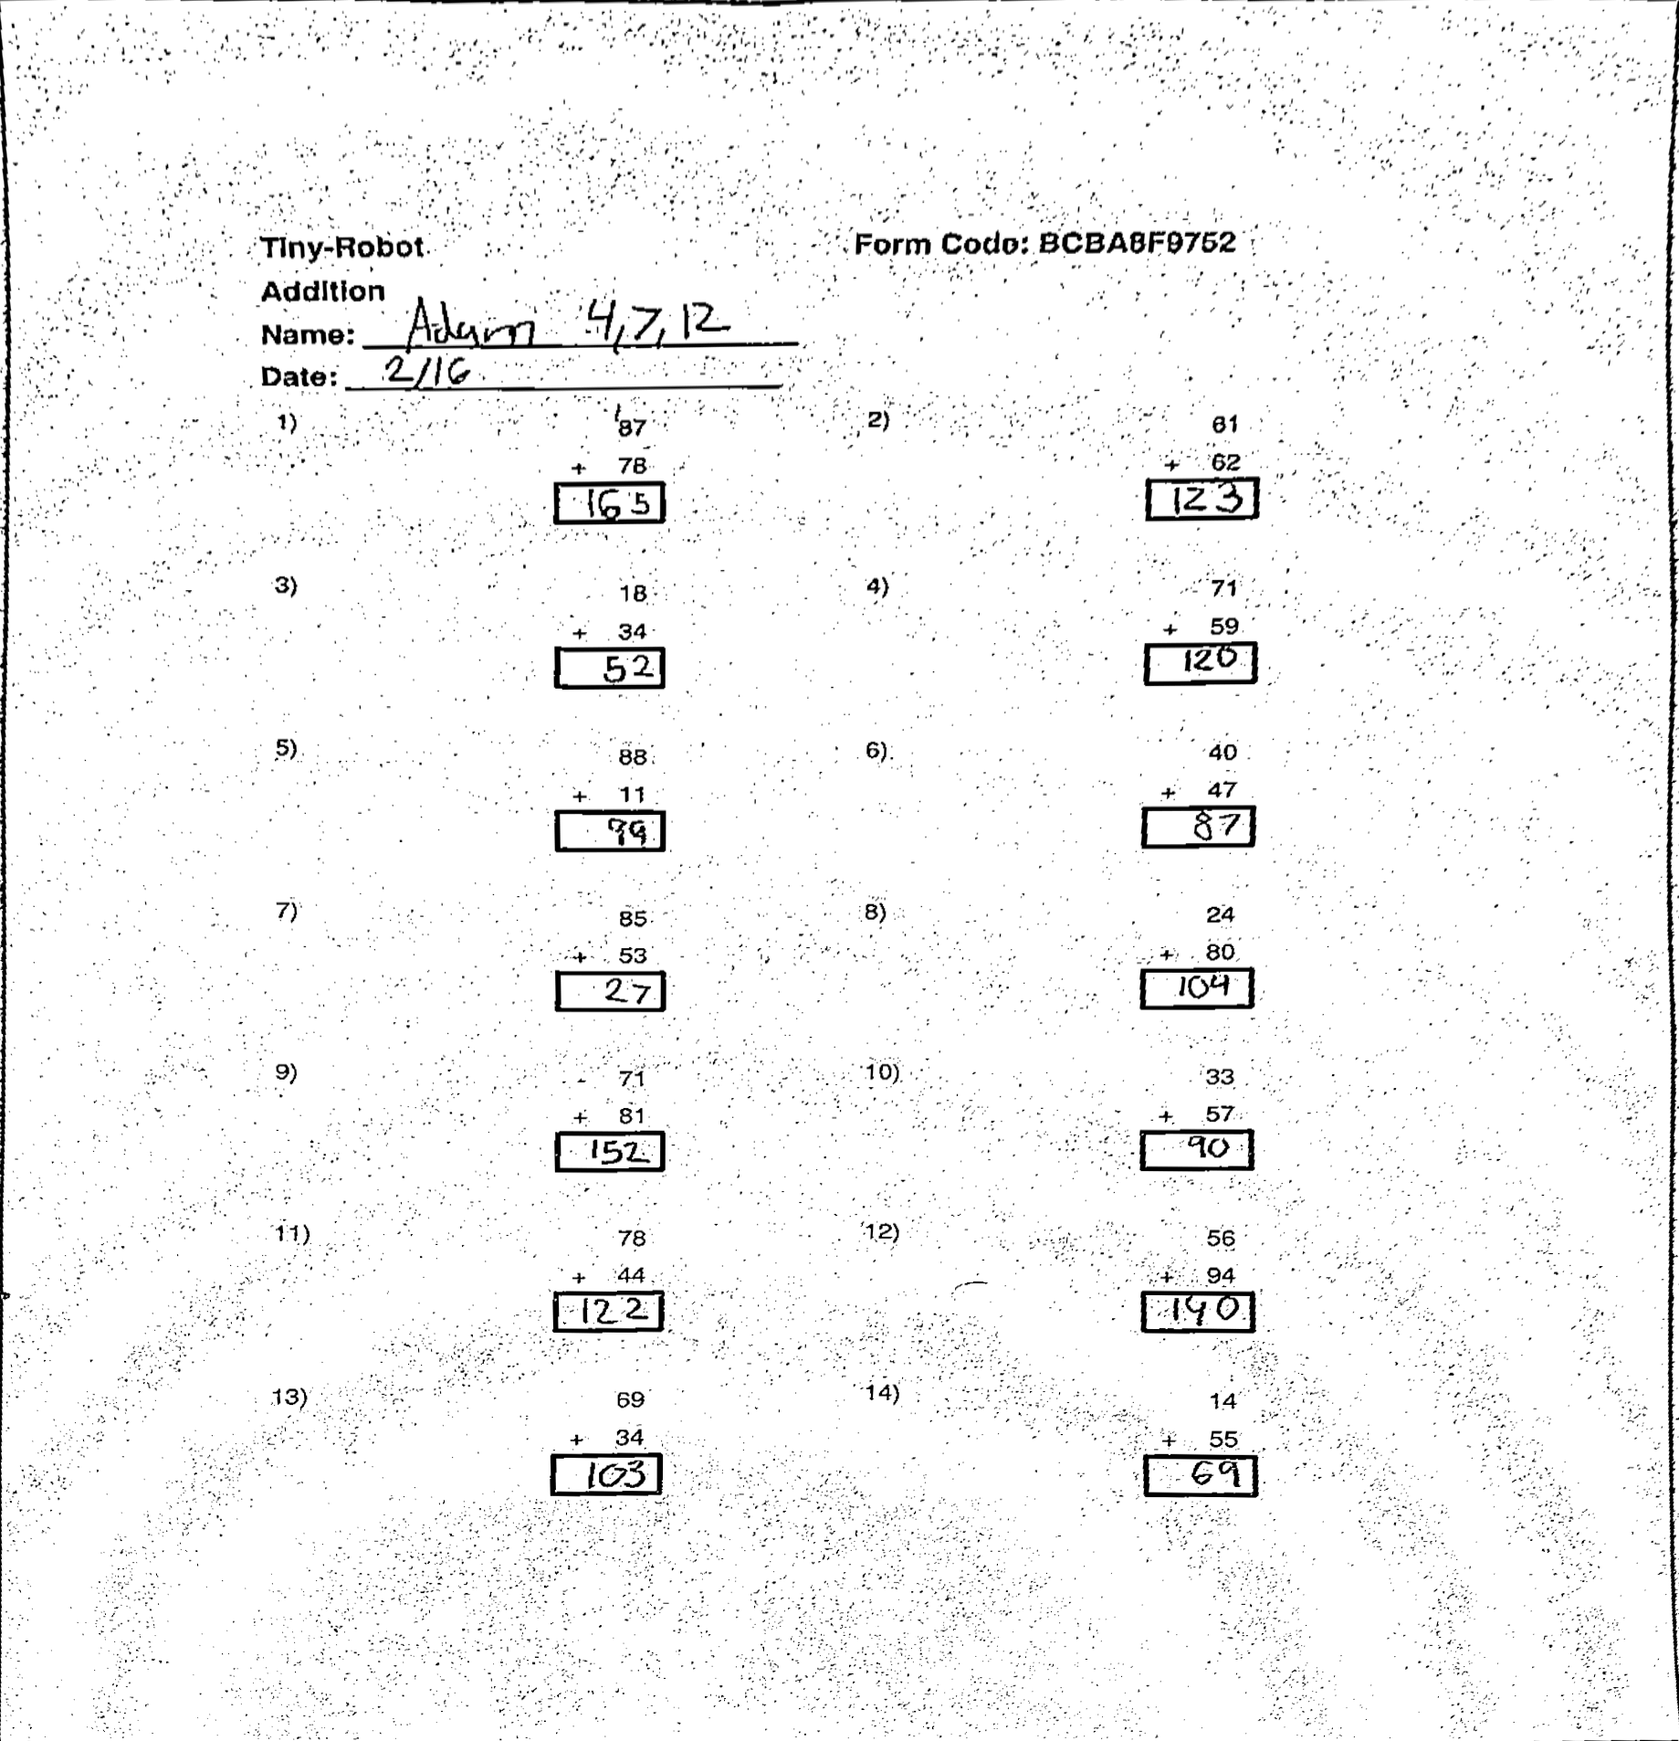
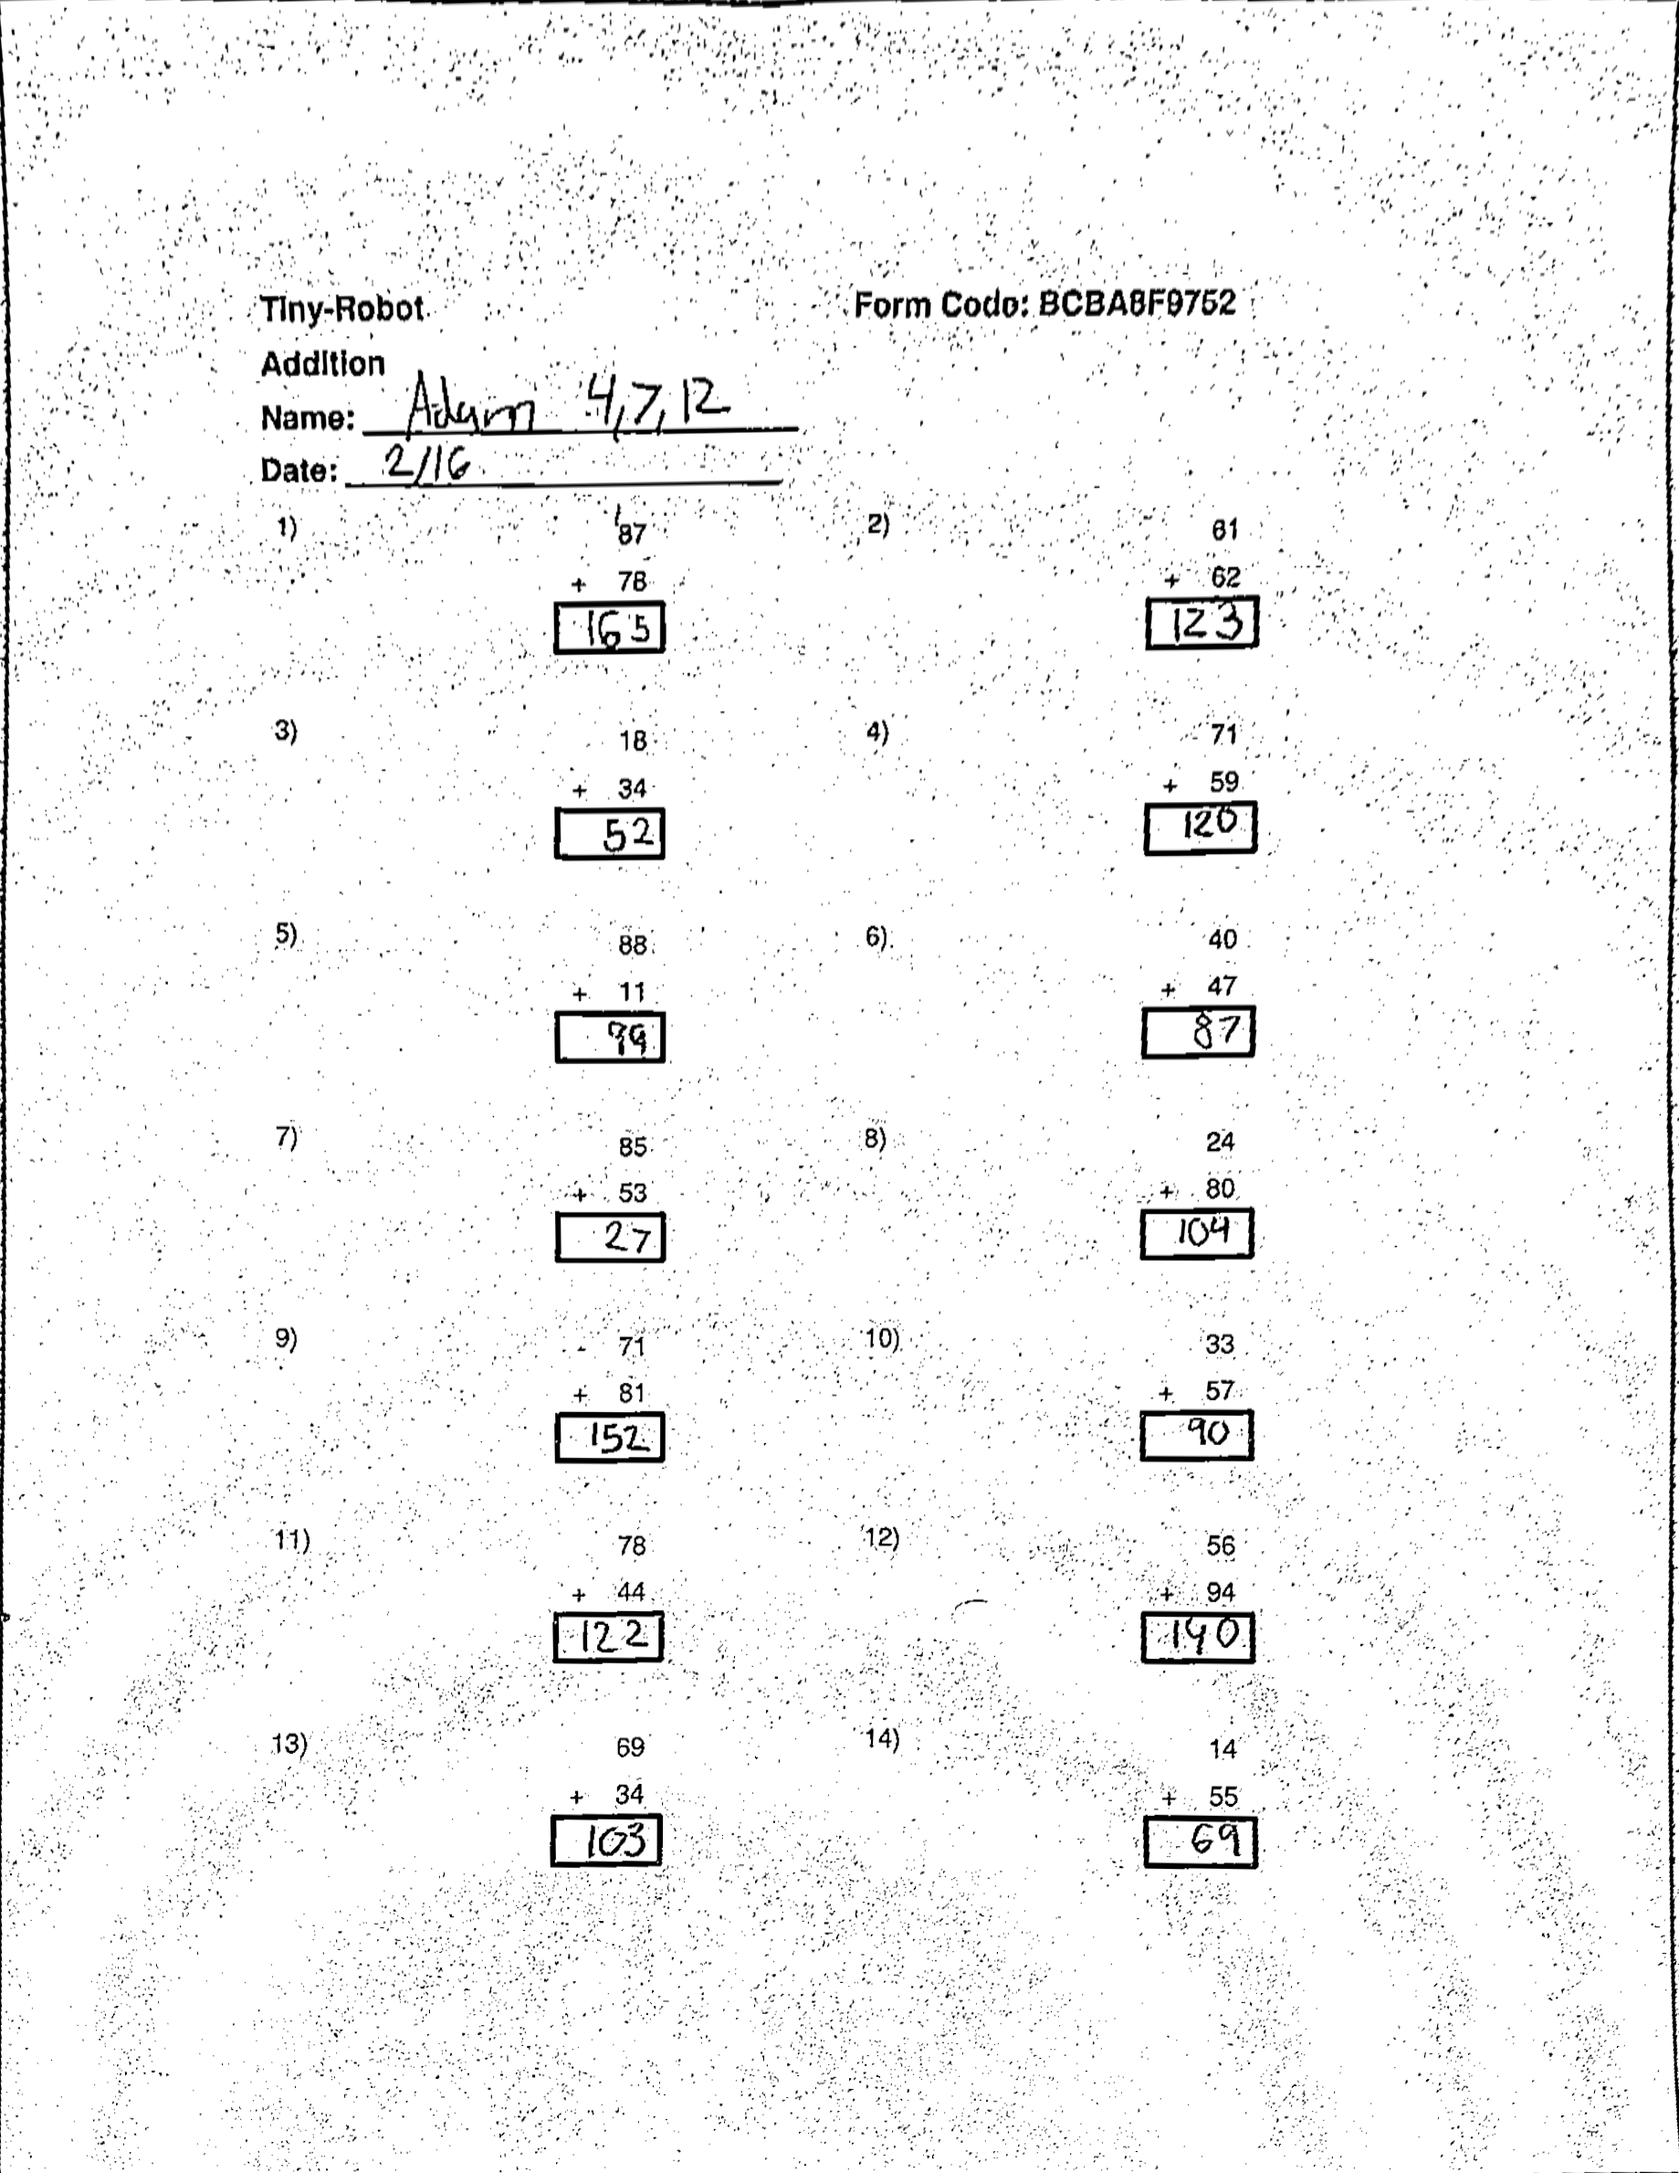
extracts answer boxes

diff --git a/extractor.py b/extractor.py
@@ -1,0 +1,101 @@
+import cv2
+import numpy as np
+import pickle
+
+from helpers import Helpers
+from cells import Cells
+import pytesseract
+    
+# code adpated from https://github.com/prajwalkr/SnapSudoku/blob/master/scripts/sudokuExtractor.py
+class Extractor(object):
+    '''
+        Stores and manipulates the input image to extract the Sudoku puzzle
+        all the way to the cells
+    '''
+
+    def __init__(self, path):
+        self.helpers = Helpers()  # Image helpers
+        self.image = self.helpers.loadImage(path)
+        self.helpers.show(self.image, 'Original')
+        self.gray, self.thresh, self.morph = self.preprocess(self.image)
+        self.helpers.show(self.thresh, 'After thresholdify')
+        self.helpers.show(self.morph, 'With Morph')
+        
+        self.cropped_morph, self.cropped_tresh, self.cropped_gray, self.cropped = \
+            self.crop_largest_contour(self.morph, [self.thresh, self.gray, self.image])
+        self.helpers.show(self.cropped, 'After Cropping out image')
+        self.warp_morph, self.warp_thresh, self.warp_gray, self.warp = \
+            self.straighten(self.cropped_morph, [self.cropped_tresh, self.cropped_gray, self.cropped])
+        self.helpers.show(self.warp, 'Final image')
+        self.helpers.show(self.warp_morph, 'Warp Morph')
+        self.helpers.show(self.warp_thresh, 'Warp Thresh')
+        self.helpers.show(self.warp_gray, 'Warp Gray')
+
+
+        self.get_rectangles(self.warp_morph, self.warp, count=14)
+        '''self.gray2, self.thresh2, self.morph2 = self.preprocess(self.warp)
+        self.helpers.show(self.gray2, 'post processed gray')
+        self.helpers.show(self.thresh2, 'post processed tresh')
+        self.helpers.show(self.morph2, 'post processed morph')
+        #cv2.imwrite('processed_org2.png', self.gray2)
+        '''
+    def preprocess(self, image):
+        print('Preprocessing...')
+        gray = cv2.cvtColor(image, cv2.COLOR_BGR2GRAY)
+        blur = cv2.GaussianBlur(gray, (5,5), 0)
+        thresh = self.helpers.thresholdify(blur)
+        kernel = cv2.getStructuringElement(cv2.MORPH_ELLIPSE, (2, 2))
+        morph = cv2.morphologyEx(thresh, cv2.MORPH_CLOSE, kernel)
+        return gray, thresh, morph
+        print('done.')
+
+    def crop_largest_contour(self, processed_image, images=None):
+        # prepared image is a black and white image
+        # images are optional additional images to undergo the same cropping
+        print('Cropping out the image...')
+        contour = self.helpers.largestContour(processed_image)
+        images.insert(0, processed_image)
+        result = []
+        for image in images:
+            result.append(self.helpers.cut_out_rect(image, contour))
+        print('done.')
+        return result
+
+    def straighten(self, processed_image, images=None):
+        print('Straightening image...')
+        largest = self.helpers.largest4SideContour(processed_image)
+        app = self.helpers.approx(largest)
+        corners = self.helpers.get_rectangle_corners(app)
+        # print(corners)
+        result = []
+        images.insert(0, processed_image)
+        for image in images:
+            result.append(self.helpers.warp_perspective(corners, image))
+        print('done.')
+        return result
+
+    def get_rectangles(self, processed, display_image, count=14, min_size=4000, max_size=8000):
+        im2, contours, h = cv2.findContours(
+            processed, cv2.RETR_TREE, cv2.CHAIN_APPROX_SIMPLE)
+        contours = sorted(contours, key=cv2.contourArea, reverse=True)
+        if not display_image.any():
+            display_image = processed
+
+        n = 0
+        rects = []
+        for cnt in contours:
+            if cv2.contourArea(cnt) > max_size or len(self.helpers.approx(cnt)) not in [4, 5]:
+                continue
+            n += 1
+            print(n, cv2.contourArea(cnt))
+            if cv2.contourArea(cnt) < min_size or n > count:
+                break
+            im = display_image.copy()
+            cv2.drawContours(im, [cnt], -1, (0,255,120), 5)
+            rect = self.helpers.cut_out_rect(display_image, cnt)
+            rects.append(rect)
+            ocr_num = pytesseract.image_to_string(rect)
+            self.helpers.show(rect, '{}) {} | contour sides:{}, area:{}'.format(n, ocr_num, len(self.helpers.approx(cnt)), cv2.contourArea(cnt)))
+        return None
+if __name__ == '__main__':
+    ext = Extractor('BCBA8F9752.jpg')

diff --git a/helpers.py b/helpers.py
@@ -34,7 +34,7 @@ class Helpers(object):
         
     def thresholdify(self, img):
         img = cv2.adaptiveThreshold(img.astype(np.uint8), 255, cv2.ADAPTIVE_THRESH_GAUSSIAN_C,
-                                    cv2.THRESH_BINARY, 11, 3)
+                                    cv2.THRESH_BINARY, 11, 2)
         return 255 - img
 
     def Canny(self, image):
@@ -55,28 +55,52 @@ class Helpers(object):
                 image, cv2.RETR_TREE, cv2.CHAIN_APPROX_SIMPLE)
         return max(contours, key=cv2.contourArea)
 
-    def largest4SideContour(self, image):
+    def largest4SideContour(self, processed, show=False, display_image=None):
         im2, contours, h = cv2.findContours(
-            image, cv2.RETR_TREE, cv2.CHAIN_APPROX_SIMPLE)
+            processed, cv2.RETR_TREE, cv2.CHAIN_APPROX_SIMPLE)
         contours = sorted(contours, key=cv2.contourArea, reverse=True)
+
         for cnt in contours[:min(5,len(contours))]:
-            im = image.copy()
-            cv2.drawContours(im, cnt, -1, (255,255,255), 5)
-            self.show(im,'contour')
+            if show:
+                im = display_image.copy()
+                cv2.drawContours(im, [cnt], -1, (0,255,120), 5)
+                self.show(im,'contour')
             if len(self.approx(cnt)) == 4:
                 return cnt
         return None
 
+    def show_all_contours(self, processed, display_image=False, min_size=100):
+        im2, contours, h = cv2.findContours(
+            processed, cv2.RETR_TREE, cv2.CHAIN_APPROX_SIMPLE)
+        contours = sorted(contours, key=cv2.contourArea, reverse=True)
+        if not display_image.any():
+            display_image = processed
+        for cnt in contours:
+            if cv2.contourArea(cnt) < min_size:
+                break
+            im = display_image.copy()
+            cv2.drawContours(im, [cnt], -1, (0,255,120), 5)
+            self.show(im,'contour sides:{}, area:{}'.format(len(self.approx(cnt)), cv2.contourArea(cnt)))
+        return None
+
+
+
+
     def make_it_square(self, image, side_length=306):
         return cv2.resize(image, (side_length, int(side_length * (11/8.5))))
+
+
+    def make_it_letter(self, image, side_length=306):
+        return cv2.resize(image, (side_length, int(side_length * (11/8.5))))
+
 
     def area(self, image):
         return float(image.shape[0] * image.shape[1])
 
-    def cut_out_sudoku_puzzle(self, image, contour):
+    def cut_out_rect(self, image, contour):
         x, y, w, h = cv2.boundingRect(contour)
         image = image[y:y + h, x:x + w]
-        return self.make_it_square(image, min(image.shape))
+        return image
 
     def binarized(self, image):
         for i in range(image.shape[0]):
@@ -119,7 +143,8 @@ class Helpers(object):
         # take the maximum of the width and height values to reach
         # our final dimensions
         maxWidth = max(int(widthA), int(widthB))
-        maxHeight = max(int(heightA), int(heightB))
+        maxHeight = int(maxWidth * (11/8.5))
+        #maxHeight = max(int(heightA), int(heightB))
 
         # construct our destination points which will be used to
         # map the screen to a top-down, "birds eye" view
@@ -132,6 +157,8 @@ class Helpers(object):
         # calculate the perspective transform matrix and warp
         # the perspective to grab the screen
         M = cv2.getPerspectiveTransform(rect, dst)
+
+        print(M)
         warp = cv2.warpPerspective(grid, M, (maxWidth, maxHeight))
         #return self.make_it_square(warp)
         return warp

diff --git a/homography.py b/homography.py
@@ -1,0 +1,73 @@
+import cv2
+import numpy as np
+import pickle
+import copy
+
+from helpers import Helpers
+ 
+helpers = Helpers()
+img = helpers.loadImage('start.jpg')
+
+z_t = 1
+z_s = 0
+P = np.zeros((3,3))
+
+P[2, 2] = 1
+
+t = np.zeros((4,3))
+s = np.zeros((4,3))
+
+# corners
+t[0] = np.array([0,  55, 0]) # top left
+t[1] = np.array([209,  0, 0]) # top right
+t[2] = np.array([354, 230, 0]) # bottom left
+t[3] = np.array([54,  354, 0]) # bottom right
+
+t0 = copy.copy(t[0])
+for i in range(0, len(t)):
+    t[i] = t[i] - t0
+    t[i][2] = z_t # make all z's into 1
+
+# target
+s[0] = np.array([0,  0, z_s]) # top left
+s[1] = np.array([220,  0, z_s]) # top right
+s[2] = np.array([220, 220, z_s]) # bottom left
+s[3] = np.array([0,  220, z_s]) # bottom right
+
+xt = 0 # is the mean of the differences between the image and the point
+
+A = []
+for i in range(len(t)):
+    x, y, z = t[i]
+    a, b, c = s[i]
+
+    A.append([x, y, z, 0, 0, 0, -1*a*x, -1*a*y, -1*a])
+    A.append([0, 0, 0, x, y, z, -1*b*x, -1*b*y, -1*b])
+
+zero = np.zeros(len(t)*2)
+A = np.asarray(A)
+U, S, Vh = np.linalg.svd(A)
+L = Vh[-1,:] / Vh[-1,-1]
+h = L.reshape(3, 3)
+#h = np.linalg.lstsq(A, zero, rcond=None)
+#h = list(h[3])
+#h.append(1)
+#h = np.array(h)
+#h = h.reshape(3,3)
+print(h)
+#h, status = cv2.findHomography(t, s)
+print()
+print(h)
+final_img = cv2.warpPerspective(img, h, (400, 400))
+
+helpers.show(img)
+helpers.show(final_img)
+'''
+difs = s - t
+print(difs)
+print(difs.mean(axis=0))
+xt = difs[0]
+yt = difs[1]
+for i in range(len(t)):
+    print(i)
+'''

diff --git a/ocr.py b/ocr.py
@@ -7,7 +7,7 @@ from PIL import Image
 import pytesseract
 
 helpers = Helpers()
-img = helpers.loadImage('processed.png')
+img = helpers.loadImage('processed_org.png')
 reflect = np.array([[0, 0, 1], [0, 1, 0], [1, 0, 0]])
 print(img.shape)
 #helpers.show(img * reflect)
